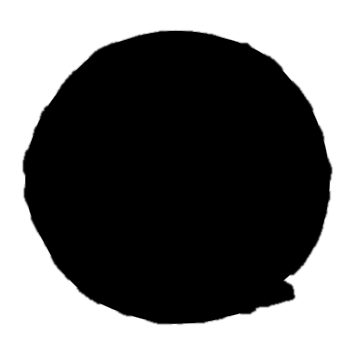
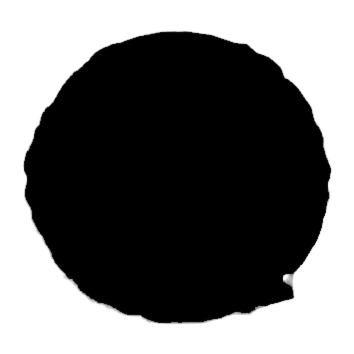
Matassa nitida: texture pari pari dalla foto a doppia risoluzione con la lana specchiata oltre il bordo, maschera con la peluria vera, filo che esce da sotto il bordo; ombra morbida dei profili sulla carta (#27)
Claude-Session: https://claude.ai/code/session_01K8S9kDcMmADtdHMs7poTsz

diff --git a/assets/js/matassa.js b/assets/js/matassa.js
@@ -11,8 +11,8 @@
    - filo.webp: solo il filo, con la trasparenza;
    - tempo.png: per ogni pixel del filo, quando ricompare (0 = alla matassa, 1 = in
      fondo), in 16 bit: rosso = byte alto, verde = byte basso;
-   - palla.webp: la matassa intera raddrizzata a cerchio pieno di lana (354x354, centro 177),
-     e palla-maschera.png: la sua sagoma vera, con il bordo morbido. Mentre si scorre la
+   - palla.webp: la matassa pari pari dalla foto, a doppia risoluzione (708x708, si disegna a 354),
+     con la lana specchiata oltre il bordo; palla-maschera.png: la sua sagoma vera con la peluria. Mentre si scorre la
      texture gira sotto la maschera ferma: cosi' gira tutta la lana fino al bordo, mentre
      il contorno e l'ombra proiettata sulla carta restano al loro posto.
    Con prefers-reduced-motion il palco e' alto uno schermo e il filo e' gia' tutto. */
@@ -49,8 +49,8 @@
   function prepara() {
     var nome = verticale && verticale.matches ? 'stretto' : 'largo', T = TAGLI[nome];
     if (scena && scena.nome === nome) return;
-    Promise.all([carica(DIR + nome + '-base.webp?v=7'), carica(DIR + nome + '-filo.webp?v=7'), carica(DIR + nome + '-tempo.png?v=7'),
-                 carica(DIR + nome + '-palla.webp?v=2'), carica(DIR + nome + '-palla-maschera.png?v=3')]).then(function (r) {
+    Promise.all([carica(DIR + nome + '-base.webp?v=8'), carica(DIR + nome + '-filo.webp?v=8'), carica(DIR + nome + '-tempo.png?v=8'),
+                 carica(DIR + nome + '-palla.webp?v=3'), carica(DIR + nome + '-palla-maschera.png?v=4')]).then(function (r) {
       var fp = pixel(r[1], T.W, T.H), tp = pixel(r[2], T.W, T.H);
       cBase.width = cFilo.width = T.W; cBase.height = cFilo.height = T.H;
       var out = cFilo.getContext('2d').createImageData(T.W, T.H), od = out.data;
@@ -94,7 +94,7 @@
     gc.setTransform(1, 0, 0, 1, 0, 0);
     gc.clearRect(0, 0, PALLA, PALLA);
     gc.translate(CP, CP); gc.rotate(-p * Math.PI * 1.6);
-    gc.drawImage(scena.palla, -CP, -CP);
+    gc.drawImage(scena.palla, -CP, -CP, PALLA, PALLA);
     gc.setTransform(1, 0, 0, 1, 0, 0);
     gc.globalCompositeOperation = 'destination-in';
     gc.drawImage(scena.maschera, 0, 0);

diff --git a/index.html b/index.html
@@ -596,7 +596,7 @@
 </footer>
 
 <!-- prima la matassa: se c'e', site.js non disegna il filo colorato dell'apertura -->
-<script src="assets/js/matassa.js?v=20261003w" defer></script>
+<script src="assets/js/matassa.js?v=20261003x" defer></script>
 <script src="assets/js/site.js?v=20261003q" defer></script>
 <script src="assets/js/filo-laterale.js?v=3" defer></script>
 </body>
